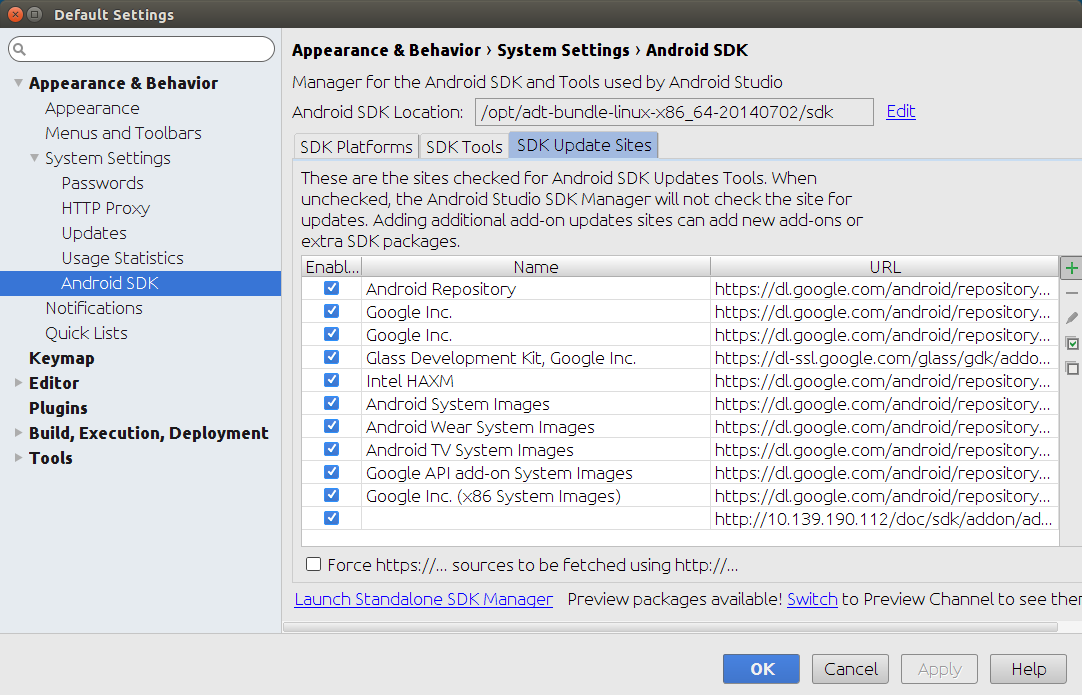
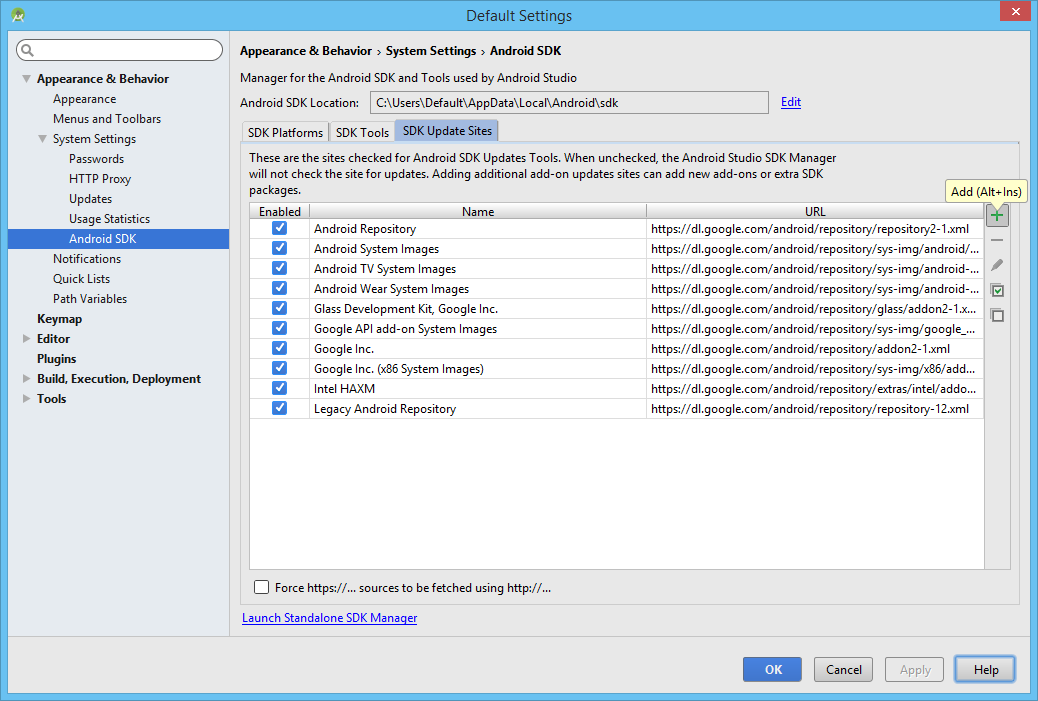
[Quick-Start] Added screens for Android Studio

diff --git a/quick-start/android-studio.html b/quick-start/android-studio.html
@@ -9,16 +9,13 @@ title: Android Studio
 {% include info-box.html msg='Please notice that the following instructions are valid for Android Studio versions released on the <i>stable</i>, there is no support for the <i>beta</i> channel' %}
 
 Download Android Studio from the <a href="http://developer.android.com/sdk/index.html">official website</a>
-and follow the <a href="http://developer.android.com/sdk/installing/index.html?pkg=studio">installation instruction</a>.
-
-After installing Android Studio, install the proper Android SDK version for your device (i.e. SDK level 16 for Android
-4.1.1).
+and follow the <a href="http://developer.android.com/sdk/installing/index.html?pkg=studio">installation instructions</a>. After installing Android Studio, install the Android SDK through the Android SDK Manager or provide a correct path to one already installed. Since developers are encouraged to target the most recent and updated Android SDK release while developing an application, choose the most new API level released and download the associated platform.
 
 <h2 id="install-sdk">Install Datalogic SDK Add-on</h2>
 
-<p>From Android Studio launch window, click on <i>Configure</i> &gt; <i>Android SDK Manager</i>
+<p>From Android Studio launch window, click on <i>Configure</i> &gt; <i>SDK Manager</i>
 to open Android SDK Manager</p>
-{% include img.html src='install-sdk-as-configure.png' %}
+{% include img.html src='install-sdk-as.png' %}
 {% include img.html src='install-sdk-as-menu.png' %}
 
 <p>Select the tab <i>SDK Update Sites</i> and click the <i class="fa fa-plus"></i>
@@ -29,26 +26,32 @@ to open Android SDK Manager</p>
 {% highlight none %}
 {{ site.addonxml_url }}
 {% endhighlight %}
+</br>
 {% include img.html src='install-sdk-as-site-url.png' %}
 
-<p>Now select the tab <i>SDK Platforms</i> and check the checkbox on the
-bottom right <i>Show Package Details</i>.
-Under the section <i>Android 4.1.2</i> (API 16) Datalogic SDK Add-on should appear.
-To install it, check Datalogic SDK Add-on checkbox and a small icon on the left should appear</p>
-{% include info-box.html level='warn' msg='Please notice that you must also install the Android API platform matching your Android version (i.e. API 16 is required to compile apps for Android 4.1.1)' %}
+<p>Now select the tab <i>SDK Platforms</i> in the Android SDK settings panel and check the checkbox on the
+bottom right <i>Show Package Details</i>.</p>
+{% include img.html src='install-sdk-as-checkbox.png' %}
+
+<p>Under each displayed section, corresponding to the Android releases available, <b>Datalogic SDK v1</b> Add-on should appear. Choose and install the development kit in accordance with your Android platform of choice. To install it, check Datalogic SDK v1 checkbox and a small icon on the left should appear</p>
+{% include info-box.html level='warn' msg='Please notice that you must also install the Android API platform matching your Android version in use for development (i.e. API 23 is required to compile apps supported up to Android 6.0)' %}
 
 {% include img.html src='install-sdk-as-before-install.png' %}
 
-<p>Click on the button <i>Apply</i> to install the selected packages.
-Once the installation is complete, the <i>Status</i> of the Datalogic SDK Add-on changes from
-<i>Not installed</i> to <i>Installed</i></p>
-{% include img.html src='install-sdk-as-installed.png' %}
+<p>Click on the button <i>Apply</i> to install the selected packages and confirm the choice.</p>
+{% include img.html src='install-sdk-as-selected-confirm.png' %}
+
+<p>Now, read the corresponding End-User License Agreement (EULA) available in the next window. Accept it, in order to install Datalogic Android SDK.</p>
+{% include img.html src='install-sdk-as-selected-confirm-eula.png' %}
+{% include img.html src='install-sdk-as-selected-confirm-eula-installed.png' %}
+
+Once the installation is complete, the <i>Status</i> of the Datalogic SDK v1 Add-on changes from
+<i>Not installed</i> to <i>Installed</i>. You are now ready to start developing applications compatible with Datalogic devices.</p>
+{% include img.html src='install-sdk-as-selected-confirm-installed.png' %}
 
 <h2 id="use-sdk">Use Datalogic SDK</h2>
 
 <h3 id="create-apps">Create new applications</h3>
-<p>When creating a new project choose <i>Datalogic Add-on SDK 1.0</i> as <i>Minimum SDK</i> option</p>
-{% include img.html src='install-sdk-as-create-project.png' %}
 
 <h3 id="compile-project">Compile projects</h3>
 
